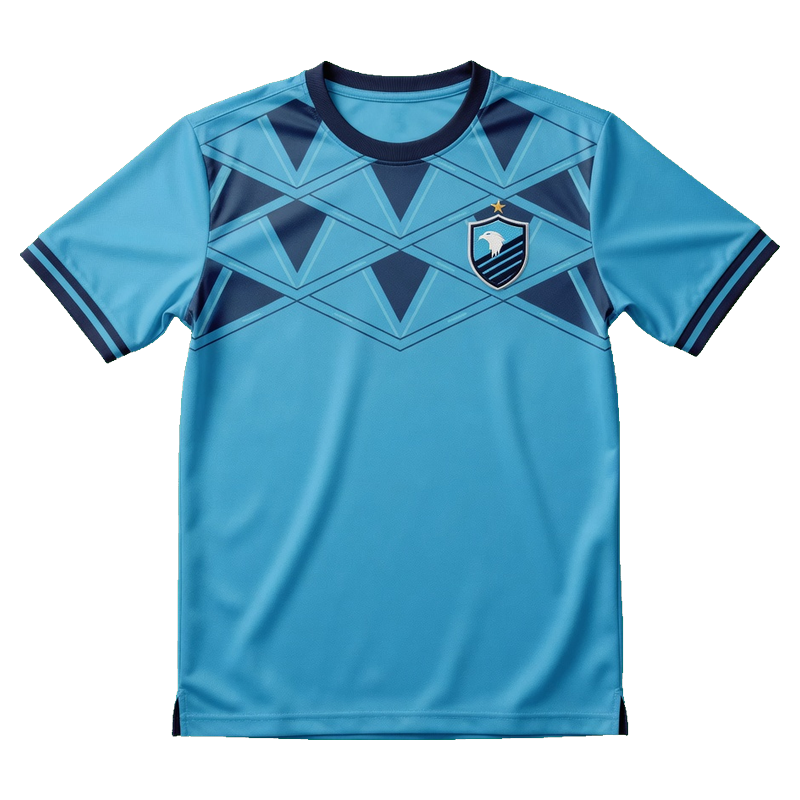
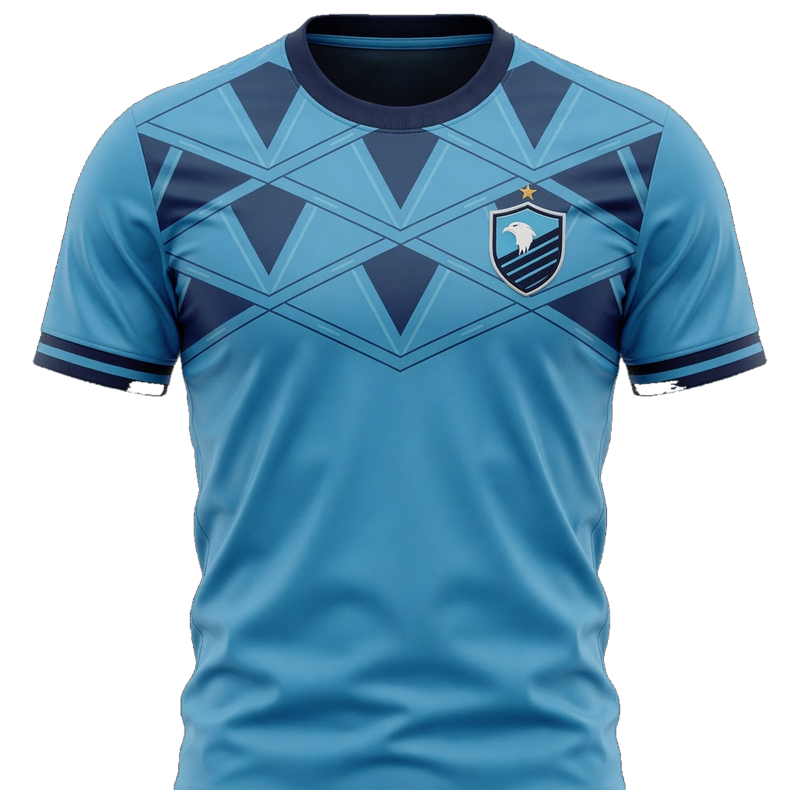
Card: viso e maglia coordinati, testa nel colletto.

diff --git a/player-card.css b/player-card.css
@@ -126,42 +126,42 @@
 
 .es-pc-kit {
   position: absolute;
-  left: 4%;
-  right: 0;
-  top: 28%;
-  bottom: 24%;
+  left: 12%;
+  right: 10%;
+  top: 40%;
+  bottom: 28%;
   z-index: 2;
   display: grid;
-  place-items: end center;
+  place-items: start center;
   pointer-events: none;
-  overflow: visible;
+  overflow: hidden;
 }
 .es-pc-kit img {
-  width: 108%;
-  height: 108%;
+  width: 90%;
+  height: 90%;
   object-fit: contain;
-  object-position: center bottom;
+  object-position: center top;
   filter: drop-shadow(0 6px 10px rgba(0, 0, 0, 0.35));
 }
 .es-pc-fifa-photo {
   position: absolute;
-  left: 16%;
-  right: -4%;
-  top: 2%;
-  bottom: 30%;
+  left: 4%;
+  right: -2%;
+  top: 1%;
+  bottom: 24%;
   z-index: 4;
   overflow: hidden;
-  -webkit-mask-image: linear-gradient(to bottom, #000 0%, #000 78%, transparent 100%);
-  mask-image: linear-gradient(to bottom, #000 0%, #000 78%, transparent 100%);
+  -webkit-mask-image: linear-gradient(to bottom, #000 0%, #000 82%, transparent 100%);
+  mask-image: linear-gradient(to bottom, #000 0%, #000 82%, transparent 100%);
 }
 .es-pc-fifa-photo img.es-pc-player,
 .es-pc-fifa-photo img,
 .es-pc-ph {
   position: absolute;
-  left: 50%;
+  left: 52%;
   bottom: 0;
   transform: translateX(-50%);
-  height: 112%;
+  height: 108%;
   width: auto;
   max-width: none;
   max-height: none;

diff --git a/index.html b/index.html
@@ -290,8 +290,8 @@
   <link rel="stylesheet" href="tc-panel.css?v=20260827_LUX1">
   <link rel="stylesheet" href="player-profile.css?v=20260826_PRES_PRF1">
   <link rel="stylesheet" href="player-dash.css?v=20260827_REAL1">
-  <link rel="stylesheet" href="player-card.css?v=20260903_ELISEE5">
-  <link rel="stylesheet" href="card-atelier.css?v=20260903_ELISEE5">
+  <link rel="stylesheet" href="player-card.css?v=20260903_ELISEE6">
+  <link rel="stylesheet" href="card-atelier.css?v=20260903_ELISEE6">
   <link rel="stylesheet" href="coach-dash.css?v=20260830_ECCB1">
   <link rel="stylesheet" href="ds-dash.css?v=20260827_LUX1">
   <link rel="stylesheet" href="ds-hub.css?v=20260827_DS1">
@@ -5167,8 +5167,8 @@
   <script src="schede-tecniche.js?v=20260820_ST3"></script>
   <script src="mappa-club.js?v=20260902_CLEANOSM1"></script>
   <script src="chi-segui.js?v=20260827_CARD1"></script>
-  <script src="card-atelier.js?v=20260903_ELISEE5"></script>
-  <script src="player-card.js?v=20260903_ELISEE5"></script>
+  <script src="card-atelier.js?v=20260903_ELISEE6"></script>
+  <script src="player-card.js?v=20260903_ELISEE6"></script>
   <script src="ds-hub.js?v=20260827_DS1"></script>
   <script src="verifica-account.js?v=20260903_OTPMAIL5"></script>
   <script src="creator-role-switcher.js?v=20260903_BUGFIXALL2"></script>

diff --git a/player-card.js b/player-card.js
@@ -278,7 +278,7 @@
     if (window.EliseeCardAtelier && typeof window.EliseeCardAtelier.faceSrc === 'function') {
       return window.EliseeCardAtelier.faceSrc(u);
     }
-    return 'immagini/card-elisee/esempio-viso.png?v=20260903_ELISEE5';
+    return 'immagini/card-elisee/esempio-viso.png?v=20260903_ELISEE6';
   }
 
   function displaySurname(u) {
@@ -328,7 +328,7 @@
           '<div class="es-pc-pos">' + esc(pos) + '</div>' +
         '</div>' +
         '<div class="es-pc-inner">' +
-          '<div class="es-pc-kit"><img src="immagini/card-elisee/maglia.png?v=20260903_ELISEE5" alt=""></div>' +
+          '<div class="es-pc-kit"><img src="immagini/card-elisee/maglia.png?v=20260903_ELISEE6" alt=""></div>' +
           '<div class="es-pc-fifa-photo"><img class="es-pc-player" src="' + esc(face) + '" alt=""></div>' +
           '<div class="es-pc-fifa-bottom">' +
             '<div class="es-pc-fifa-name">' + esc(displaySurname(u)) + '</div>' +

diff --git a/card-atelier.js b/card-atelier.js
@@ -116,7 +116,7 @@
   function faceSrc(u) {
     var pub = publishedOf(u);
     if (pub && pub.facePng && isPngData(pub.facePng)) return pub.facePng;
-    return 'immagini/card-elisee/esempio-viso.png?v=20260903_ELISEE5';
+    return 'immagini/card-elisee/esempio-viso.png?v=20260903_ELISEE6';
   }
   function isPublished(u) { return !!(publishedOf(u) && publishedOf(u).facePng); }
 

diff --git a/sw.js b/sw.js
@@ -3,7 +3,7 @@
    - MAI servire HTML al posto di JS/CSS (causa "Unexpected token <")
    - Fallback HTML solo per navigazioni pagina
 */
-const CACHE = 'elisee-scout-v20260903-elisee5';
+const CACHE = 'elisee-scout-v20260903-elisee6';
 const PRECACHE = [
   '/',
   '/index.html',

diff --git a/CONTINUA_DA_QUI.md b/CONTINUA_DA_QUI.md
@@ -4,7 +4,7 @@ File di passaggio tra sessioni / account Grok.
 **Aprilo per primo** se stai riprendendo il progetto.
 
 Ultimo aggiornamento: **2026-09-03**
-Ultimo fatto: **Card** — overall 79 intero nello slot in alto a sinistra (fuori dal clip, più in basso nel campo oro); maglia e viso di esempio visibili in card come TOTY (maglia dietro, viso bust). Cache `ELISEE5`.
+Ultimo fatto: **Card** — viso e maglia coordinati in un unico bust (testa nel colletto, stessa maglia Elisee). Cache `ELISEE6`.
 Feature precedente: **Risoluzione Assembramento Mappa e Distribuzione Regionale Perfetta** — Geocodifica Photon 660+ città, 2810 club regione per regione. Cache `REGIONAL_FIX1`.
 Sito pubblico: **https://elisee-scout.vercel.app**
 Repo: **https://github.com/eliseomiraglia2704-source/elisee-scout** (`main`)
@@ -58,6 +58,7 @@ Admin sito: header `X-Elisee-Admin: admin123` (stesso valore usato dal client ad
 
 Flusso recente, dal più nuovo:
 
+- **Card viso-maglia** (cache `ELISEE6`): esempio viso = calciatore che indossa la maglia Elisee (testa nel colletto, niente doppia maglia). Maglia dietro, più piccola, coperta dal bust.
 - **Card overall + esempi** (cache `ELISEE5`): overall fuori dal clip-path dello scudetto, nello slot FIFA in alto a sinistra (ruolo sotto); maglia `maglia.png` = esempio scontornato dietro il viso; viso inedito = `esempio-viso.png` a bust TOTY. Non usare più silhouette/cartoon.
 - **Card Elisee** (cache `ELISEE1`): viso solo PNG; overall = media delle 6 stats italiane; maglia ufficiale `immagini/card-elisee/maglia.png`; cornice `sfondo.png` sostituibile dal grafico; staff in Control center → Card Elisee (cerca, scarica/copia, Carica l'immagine, Salva obbligatorio).
 - **Card Primetime identica al template** (cache `FC26B`): cornice = PNG UEL originale (niente zoom/clip), figura scontornata e tagliata dentro i bordi.
@@ -361,6 +362,8 @@ Privacy: punti 4.6 + 6.l/m per Secret List e Wall.
 ---
 
 ## Diario sessioni
+
+- **2026-09-03** — Coordinamento viso-maglia: un solo bust, testa nel colletto della maglia Elisee. Cache `ELISEE6`.
 
 - **2026-09-03** — Overall intero nello slot FIFA (non tagliato dal clip). Maglia e viso di esempio mostrati in card (jersey dietro, bust davanti). Cache `ELISEE5`.
 
